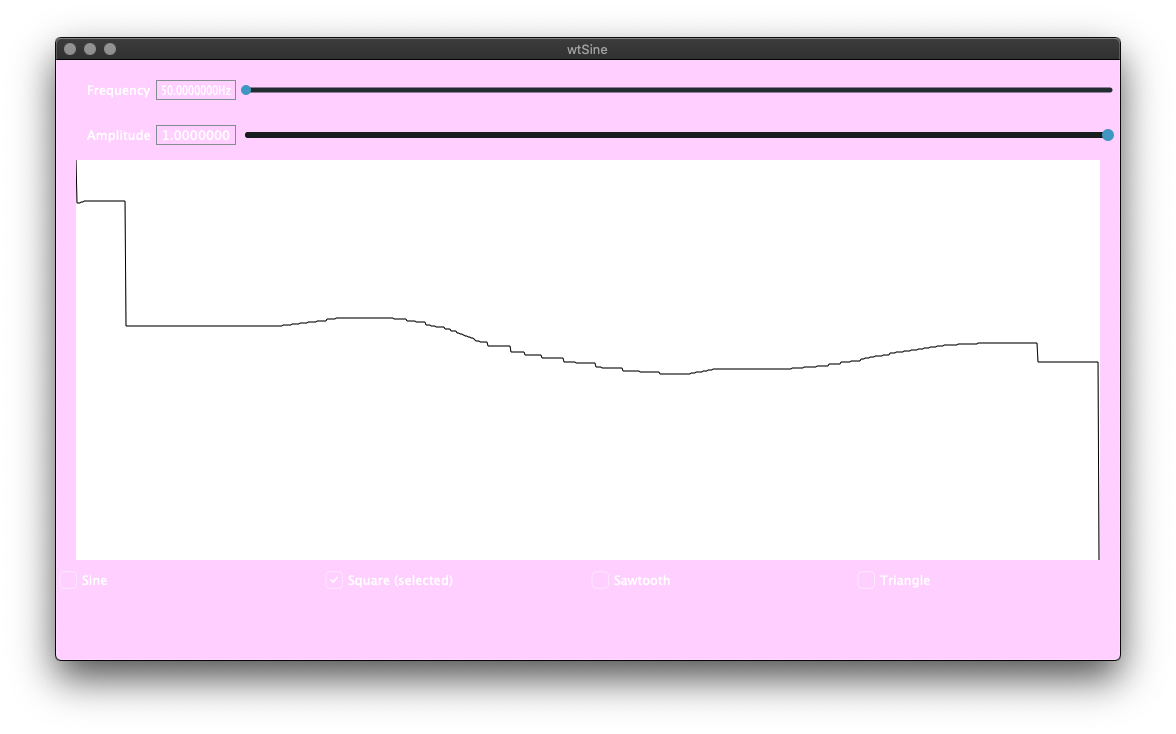
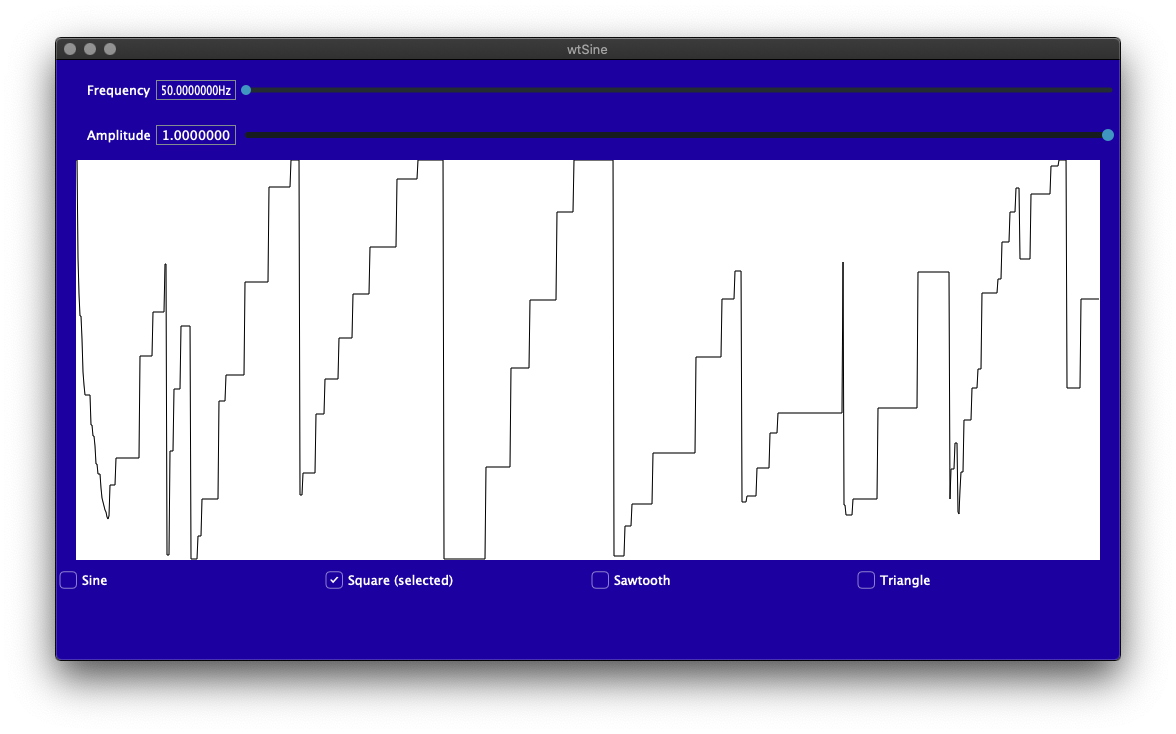
Added sound file and changed color to royal blue.

diff --git a/Source/MainComponent.h b/Source/MainComponent.h
@@ -80,7 +80,7 @@ public:
         double canvasY = 100;
         double canvasSpaceX = getWidth() - 2*canvasX;
         double canvasSpaceY = getHeight() - 2*canvasY;
-        g.fillAll(Colour (0xffffd4ff));
+        g.fillAll(Colour (0xff0504aa));
         g.drawRect(20, 100, canvasSpaceX, canvasSpaceY);
         g.setOpacity(1.0);
         image.clear(Rectangle<int> (image.getWidth(),image.getHeight()),
